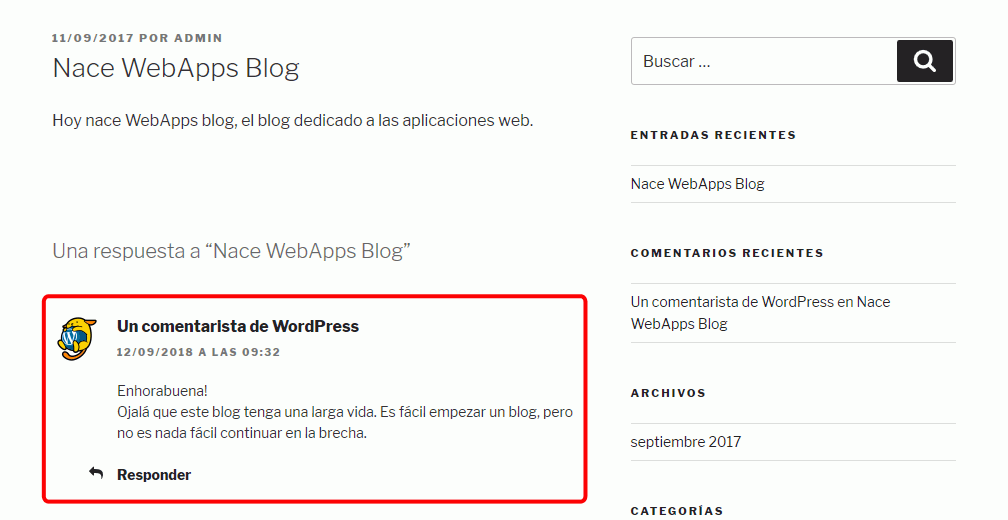
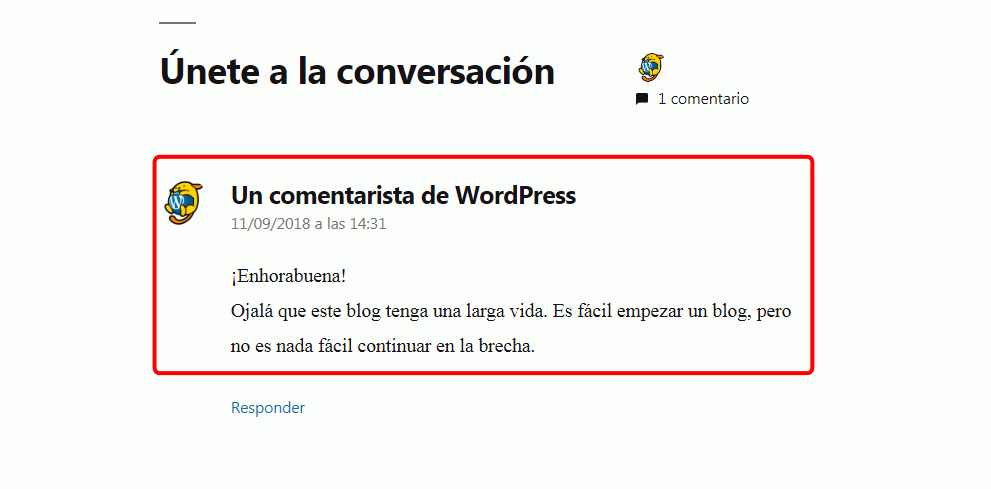
Empiezo a actualizar WordPress 2

diff --git a/lecciones/wordpress.html b/lecciones/wordpress.html
@@ -28,6 +28,7 @@
         <li><a href="#cms">CMS</a></li>
         <li><a href="#wordpress">Blogs: WordPress</a></li>
         <li><a href="#temas-predeterminados">Temas predeterminados</a></li>
+        <li><a href="#elementos">Elementos básicos</a></li>
       </ul>
     </div>
   </nav>
@@ -240,6 +241,7 @@
 
     <p>Referencia: <a href="https://www.elegantthemes.com/blog/editorial/from-kubrick-to-twenty-sixteen-a-history-of-wordpress-default-themes">Historia de los temas predeterminados de WordPress (2016)</a></p>
 
+    <p>Los dos últimos temas predeterminados son los siguientes:</p>
     <ul>
       <li><strong>Twenty Nineteen (2019)</strong>
         <p><a href="https://wordpress.org/themes/twentynineteen/">Información sobre Twenty Nineteen</a> en el Directorio de temas.</p>
@@ -250,50 +252,36 @@
         <p><a href="https://wordpress.org/themes/twentyseventeen/">Información sobre Twenty Seventeen</a> en el Directorio de temas.</p>
         <p class="captura"><img src="../img/wordpress/temas/wp-2017.jpg" alt="WordPress. Tema Twenty Seventeen" width="880" height="660" /></p>
       </li>
+    </ul>
 
-      <li><strong>Twenty Sixteen (2016)</strong>
-        <p><a href="https://wordpress.org/themes/twentysixteen/">Información sobre Twenty Sixteen</a> en el Directorio de temas.</p>
-        <p class="captura"><img src="../img/wordpress/temas/wp-2016.jpg" alt="WordPress. Tema Twenty Sixteen" width="880" height="660" /></p>
-      </li>
+    <p>Puede ver más información sobre los temas predeterminados anteriores en la lección <a href="wordpress-temas-predeterminados.html">Temas predeterminados de WordPress</a>.</p>
+  </section>
 
-      <li><strong>Twenty Fifteen (2015)</strong>
-        <p><a href="https://wordpress.org/themes/twentyfifteen/">Información sobre Twenty Fifteen</a> en el Directorio de temas.</p>
-        <p class="captura"><img src="../img/wordpress/temas/wp-2015.jpg" alt="WordPress. Tema Twenty Fifteen" width="880" height="660" /></p>
-      </li>
+  <section id="elementos">
+    <h2>Elementos básicos</h2>
 
-      <li><strong>Twenty Fourteen (2014)</strong>
-        <p><a href="https://wordpress.org/themes/twentyfourteen/">Información sobre Twenty Fourteen</a> en el Directorio de temas.</p>
-        <p class="captura"><img src="../img/wordpress/temas/wp-2014.jpg" alt="WordPress. Tema Twenty Fifteen" width="880" height="660" /></p>
+    <p>Los elementos básicos de un blog de WordPress son:</p>
+    <ul>
+      <li>Entradas
+        <p>Las entradas son los bloques de contenido que forman el blog y que llevan asociados una fecha de creación. Las entradas se organizan de forma cronológica inversa. La página principal contiene las últimas entradas y, a medida que se van publicando nuevas entradas, las entradas antiguas se pasan a páginas secundarias</p>
       </li>
-
-      <li><strong>Twenty Thirteen (2013)</strong>
-        <p><a href="https://wordpress.org/themes/twentythirteen/">Información sobre Twenty Thirteen</a> en el Directorio de temas.</p>
-        <p class="captura"><img src="../img/wordpress/temas/wp-2013.jpg" alt="WordPress. Tema Twenty Thirteen" width="880" height="660" /></p>
+      <li>Páginas
+        <p>Las páginas son bloques de contenido que no llevan asociados una fecha de creación y que suelen estar siempre accesibles desde la página principal mediante un menú. Suelen contener información general (objetivos del blog, descripción del autor, etc.).</p>
       </li>
-
-      <li><strong>Twenty Twelve (2012)</strong>
-        <p><a href="https://wordpress.org/themes/twentytwelve/">Información sobre Twenty Twelve</a> en el Directorio de temas.</p>
-        <p class="captura"><img src="../img/wordpress/temas/wp-2012.jpg" alt="WordPress. Tema Twenty Twelve" width="880" height="660" /></p>
+      <li>Comentarios
+        <p>Los comentarios son bloques de contenido que se vinculan a una entrada o página determinada y pueden ser creados por otros usuarios.</p>
       </li>
-      <li><strong>Twenty Eleven (2011)</strong>
-        <p><a href="https://wordpress.org/themes/twentyeleven/">Información sobre Twenty Eleven</a> en el Directorio de temas.</p>
-        <p class="captura"><img src="../img/wordpress/temas/wp-2011.jpg" alt="WordPress. Tema Twenty Eleven" width="880" height="660" /></p>
+      <li>Medios
+        <p>Los medios son elementos gráficos o multimedia que pueden incluirse en las entradas o páginas.</p>
       </li>
-      <li><strong>Twenty Ten (2010)</strong>
-        <p><a href="https://wordpress.org/themes/twentyten/">Información sobre Twenty Ten</a> en el Directorio de temas.</p>
-        <p class="captura"><img src="../img/wordpress/temas/wp-2010.jpg" alt="WordPress. Tema Twenty Ten" width="880" height="660" /></p>
-      </li>
-      <li><strong>Default (2005 - 2009)</strong>
-        <p><a href="https://wordpress.org/themes/default/">Información sobre Default</a> en el Directorio de temas.</p>
-      </li>
-      <li><strong>Classic (2003 - 2004)</strong>
-        <p><a href="https://wordpress.org/themes/classic/">Información sobre Classic</a> en el Directorio de temas.</p>
-      </li>
+      <li><i>slug</i> (enlace permanente)
+        <p>La URL de una entrada o una página de WordPress está formada por el dominio y por el <i>slug</i>. WordPress permite elegir entre varios formatos automáticos de <i>slugs</i>, por ejemplo, que incluyan la fecha o el título de la página, pero también se pueden especificar de forma individual.</p>
+        </li>
     </ul>
   </section>
 
   <footer>
-    <p class="ultmod">Última modificación de esta página: 25 de diciembre de 2018</p>
+    <p class="ultmod">Última modificación de esta página:11 de enero de 2019</p>
 
     <p class="licencia">
       <a rel="license" href="https://creativecommons.org/licenses/by-sa/4.0/deed.es_ES"><img src="../varios/iconos/icono-cc-by-sa.svg" alt="Licencia Creative Commons" title="Licencia Creative Commons BY-SA" width="120" height="42" /></a><br />

diff --git a/lecciones/wordpress-temas-predeterminados.html b/lecciones/wordpress-temas-predeterminados.html
@@ -1,0 +1,93 @@
+<!DOCTYPE html>
+<html lang="es">
+<head>
+  <meta charset="utf-8" />
+  <title>Temas predeterminados. WordPress. Aplicaciones web. Bartolomé Sintes Marco. www.mclibre.org</title>
+  <meta name="viewport" content="width=device-width, initial-scale=1.0" />
+  <link rel="stylesheet" href="../varios/webapps.css" title="mclibre" />
+  <link rel="icon" href="../varios/favicon.ico" />
+</head>
+
+<body>
+  <h1>WordPress - Temas predeterminados</h1>
+
+  <nav>
+    <p>
+      <a href="../index.html"><img src="../varios/iconos/icono-webapps.svg" alt="Índice de WebApps" title="Índice de WebApps" width="48" height="31" /></a>
+      <a href="#"><img src="../varios/iconos/icono-arrow-circle-up.svg" alt="Principio de la página" title="Principio de la página" width="36" height="36" /></a>
+    </p>
+
+    <div class="toc">
+      <h2>
+        WP Temas predet.
+      </h2>
+
+    </div>
+  </nav>
+
+    <p>WordPress ha incluido siempre un tema predeterminado. Desde 2010, ese tema ha ido cambiando cada año y se llamaba como el año, excepto en 2018, en que no se ha publicado un nuevo tema, probablemente debido a la próxima incorporación de <a href="https://wordpress.org/gutenberg/">Gutenberg</a>.</p>
+
+    <p>Referencia: <a href="https://www.elegantthemes.com/blog/editorial/from-kubrick-to-twenty-sixteen-a-history-of-wordpress-default-themes">Historia de los temas predeterminados de WordPress (2016)</a></p>
+
+    <ul>
+      <li><strong>Twenty Nineteen (2019)</strong>
+        <p><a href="https://wordpress.org/themes/twentynineteen/">Información sobre Twenty Nineteen</a> en el Directorio de temas.</p>
+        <p class="captura"><img src="../img/wordpress/temas/wp-2019.jpg" alt="WordPress. Tema Twenty Nineteen" width="880" height="659" /></p>
+      </li>
+
+      <li><strong>Twenty Seventeen (2017)</strong>
+        <p><a href="https://wordpress.org/themes/twentyseventeen/">Información sobre Twenty Seventeen</a> en el Directorio de temas.</p>
+        <p class="captura"><img src="../img/wordpress/temas/wp-2017.jpg" alt="WordPress. Tema Twenty Seventeen" width="880" height="660" /></p>
+      </li>
+
+      <li><strong>Twenty Sixteen (2016)</strong>
+        <p><a href="https://wordpress.org/themes/twentysixteen/">Información sobre Twenty Sixteen</a> en el Directorio de temas.</p>
+        <p class="captura"><img src="../img/wordpress/temas/wp-2016.jpg" alt="WordPress. Tema Twenty Sixteen" width="880" height="660" /></p>
+      </li>
+
+      <li><strong>Twenty Fifteen (2015)</strong>
+        <p><a href="https://wordpress.org/themes/twentyfifteen/">Información sobre Twenty Fifteen</a> en el Directorio de temas.</p>
+        <p class="captura"><img src="../img/wordpress/temas/wp-2015.jpg" alt="WordPress. Tema Twenty Fifteen" width="880" height="660" /></p>
+      </li>
+
+      <li><strong>Twenty Fourteen (2014)</strong>
+        <p><a href="https://wordpress.org/themes/twentyfourteen/">Información sobre Twenty Fourteen</a> en el Directorio de temas.</p>
+        <p class="captura"><img src="../img/wordpress/temas/wp-2014.jpg" alt="WordPress. Tema Twenty Fifteen" width="880" height="660" /></p>
+      </li>
+
+      <li><strong>Twenty Thirteen (2013)</strong>
+        <p><a href="https://wordpress.org/themes/twentythirteen/">Información sobre Twenty Thirteen</a> en el Directorio de temas.</p>
+        <p class="captura"><img src="../img/wordpress/temas/wp-2013.jpg" alt="WordPress. Tema Twenty Thirteen" width="880" height="660" /></p>
+      </li>
+
+      <li><strong>Twenty Twelve (2012)</strong>
+        <p><a href="https://wordpress.org/themes/twentytwelve/">Información sobre Twenty Twelve</a> en el Directorio de temas.</p>
+        <p class="captura"><img src="../img/wordpress/temas/wp-2012.jpg" alt="WordPress. Tema Twenty Twelve" width="880" height="660" /></p>
+      </li>
+      <li><strong>Twenty Eleven (2011)</strong>
+        <p><a href="https://wordpress.org/themes/twentyeleven/">Información sobre Twenty Eleven</a> en el Directorio de temas.</p>
+        <p class="captura"><img src="../img/wordpress/temas/wp-2011.jpg" alt="WordPress. Tema Twenty Eleven" width="880" height="660" /></p>
+      </li>
+      <li><strong>Twenty Ten (2010)</strong>
+        <p><a href="https://wordpress.org/themes/twentyten/">Información sobre Twenty Ten</a> en el Directorio de temas.</p>
+        <p class="captura"><img src="../img/wordpress/temas/wp-2010.jpg" alt="WordPress. Tema Twenty Ten" width="880" height="660" /></p>
+      </li>
+      <li><strong>Default (2005 - 2009)</strong>
+        <p><a href="https://wordpress.org/themes/default/">Información sobre Default</a> en el Directorio de temas.</p>
+      </li>
+      <li><strong>Classic (2003 - 2004)</strong>
+        <p><a href="https://wordpress.org/themes/classic/">Información sobre Classic</a> en el Directorio de temas.</p>
+      </li>
+    </ul>
+
+  <footer>
+    <p class="ultmod">Última modificación de esta página: 11 de enero de 2019</p>
+
+    <p class="licencia">
+      <a rel="license" href="https://creativecommons.org/licenses/by-sa/4.0/deed.es_ES"><img src="../varios/iconos/icono-cc-by-sa.svg" alt="Licencia Creative Commons" title="Licencia Creative Commons BY-SA" width="120" height="42" /></a><br />
+      Esta página forma parte del curso <strong><a href="http://www.mclibre.org/consultar/webapps/">Aplicaciones web</a></strong> por <a href="http://www.mclibre.org/" rel="author">Bartolomé Sintes Marco</a><br />
+      que se distribuye bajo una <a rel="license" href="https://creativecommons.org/licenses/by-sa/4.0/deed.es_ES">Licencia Creative Commons Reconocimiento-CompartirIgual 4.0 Internacional (CC BY-SA 4.0)</a>.
+    </p>
+  </footer>
+</body>
+</html>

diff --git a/lecciones/wordpress-2.html b/lecciones/wordpress-2.html
@@ -54,23 +54,7 @@
   <section id="ejercicio-1">
     <h2>WordPress (2) 1 - Primeros pasos</h2>
 
-    <p>Los elementos básicos de un blog de WordPress son:</p>
-    <ul>
-      <li>Entradas
-        <p>Las entradas son los bloques de contenido que forman el blog y que llevan asociados una fecha de creación. Las entradas se organizan de forma cronológica inversa. La página principal contiene las últimas entradas y, a medida que se van publicando nuevas entradas, las entradas antiguas se pasan a páginas secundarias</p>
-      </li>
-      <li>Páginas
-        <p>Las páginas son bloques de contenido que no llevan asociados una fecha de creación y que suelen estar siempre accesibles desde la página principal mediante un menú. Suelen contener información general (objetivos del blog, descripción del autor, etc.).</p>
-      </li>
-      <li>Comentarios
-        <p>Los comentarios son bloques de contenido que se vinculan a una entrada o página determinada y pueden ser creados por otros usuarios.</p>
-      </li>
-      <li>Medios
-        <p>Los medios son elementos gráficos o multimedia que pueden incluirse en las entradas o páginas.</p>
-      </li>
-    </ul>
-
-    <p>Al instalar WordPress, el blog contiene ya algunos elementos predeterminados. En este ejercicio se trata de modificar algunos de estos elementos (en algunos casos se pueden modificar desde varios sitios), sin crear ninguno más:</p>
+    <p>Al instalar WordPress, el blog contiene ya algunos elementos predeterminados. En este ejercicio se trata de modificar algunos de estos elementos, sin crear ninguno más. En algunos casos, estos elementos se pueden modificar desde varios sitios.</p>
 
     <ul>
       <li>Ajustes básicos
@@ -78,10 +62,10 @@
           <li>Título del sitio: "WebApps blog de NOMBRE-ALUMNO"</li>
           <li>Descripción corta: "Blog dedicado a las aplicaciones web".</li>
           <li>Zona horaria: En el caso de la península ibérica, la zona horaria es UTC+1.</li>
-          <li>Formato de fecha: 17/01/2018</li>
-          <li>Formato de hora: 09:52</li>
+          <li>Formato de fecha: 11/01/2019</li>
+          <li>Formato de hora: 21:14</li>
         </ul>
-        <p class="captura"><img src="../img/wordpress/2-1-e-1-ajustes.jpg" alt="WordPress. Ajustes básicos" width="1008" height="450" /></p>
+        <p class="captura"><img src="../img/wordpress/2-1-e-1-ajustes.png" alt="WordPress. Ajustes básicos" width="991" height="489" /></p>
       </li>
       <li>Entradas
         <p>El blog predeterminado contiene una entrada que se titula "¡Hola mundo!".</p>
@@ -89,16 +73,17 @@
           <li>Primera entrada
             <p>Modifique el título y contenido de la primera entrada. Por ejemplo,</p>
             <p>Nace WebApps blog</p>
-            <p>Hoy nace WebApps blog, el blog dedicado a las aplicaciones web.</p>
+            <p>Hoy nace WebApps blog, el blog dedicado a las aplicaciones web.  ¡Bienvenidos al viaje!</p>
             <p>Modifique la fecha de la entrada. Por ejemplo, al 10 de septiembre de 2018.</p>
-            <p class="captura"><img src="../img/wordpress/2-1-e-2-entrada.jpg" alt="WordPress. Entrada" width="1008" height="440" /></p>
+            <p>Modifique el enlace permanente de la página. Por ejemplo a nace-webapps-blog.</p>
+            <p class="captura"><img src="../img/wordpress/2-1-e-2-entrada.png" alt="WordPress. Entrada" width="991" height="489" /></p>
           </li>
           <li>Comentario a la primera entrada
             <p>Modifique el contenido del comentario. Por ejemplo,</p>
             <p>Enhorabuena!</p>
             <p>Ojalá que este blog tenga una larga vida. Es fácil empezar un blog, pero no es nada fácil continuar en la brecha.</p>
             <p>Modifique la fecha del comentario. Por ejemplo, al 11 de septiembre de 2018.</p>
-            <p class="captura"><img src="../img/wordpress/2-1-e-3-comentario.png" alt="WordPress. Comentario" width="1008" height="520" /></p>
+            <p class="captura"><img src="../img/wordpress/2-1-e-3-comentario.png" alt="WordPress. Comentario" width="991" height="489" /></p>
           </li>
         </ul>
       </li>
@@ -112,7 +97,7 @@
           <li>Modifique la fecha de la página de ejemplo. Por ejemplo, al 10 de septiembre de 2018.</li>
           <li>Modifique el enlace permanente a <strong>http://.../wordpress/acerca-de</strong>.</li>
           <li>Compruebe que no puede ver la página de ejemplo escribiendo la dirección <strong>http://.../wordpress/pagina-ejemplo</strong>, pero sí puede verla escribiendo la dirección <strong>http://.../wordpress/acerca-de</strong>.
-            <p class="captura"><img src="../img/wordpress/2-1-e-4-pagina.jpg" alt="WordPress. Página" width="1008" height="310" /></p>
+            <p class="captura"><img src="../img/wordpress/2-1-e-4-pagina.png" alt="WordPress. Página" width="991" height="489" /></p>
           </li>
         </ul>
       </li>

diff --git a/lecciones/wordpress-2-soluciones.html b/lecciones/wordpress-2-soluciones.html
@@ -59,7 +59,6 @@
     <ul>
       <li>Ajustes básicos
         <ul>
-          <li>Escritorio &gt; Inicio &gt; Personaliza tu sitio</li>
           <li>Escritorio &gt; Ajustes &gt; Generales</li>
         </ul>
       </li>
